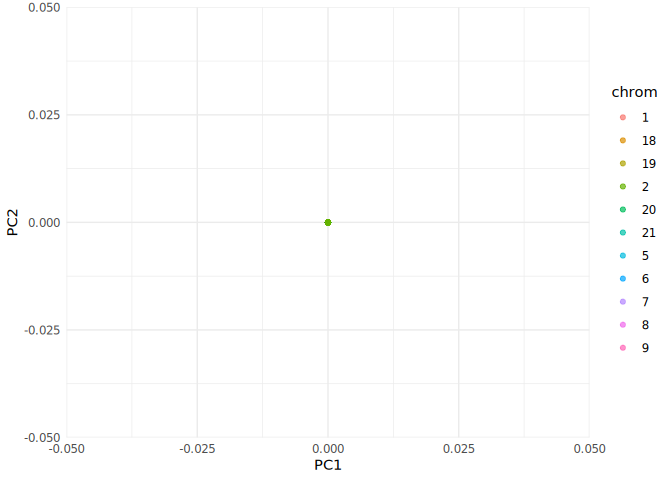
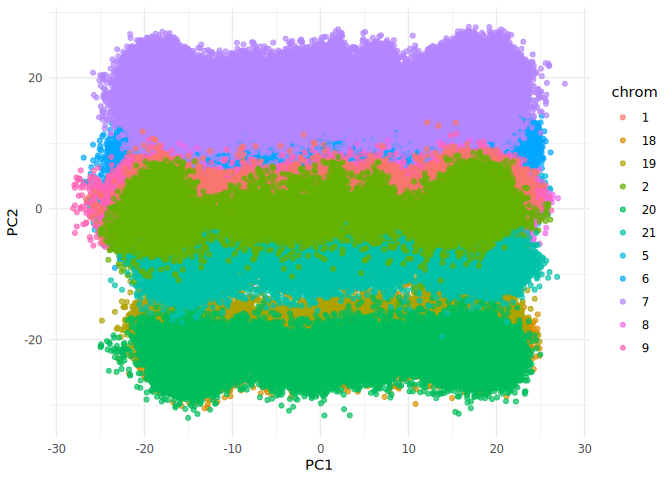
revert hugging face download method

diff --git a/README.md b/README.md
@@ -14,7 +14,7 @@ library(knitr)
 # Use OpenRemoteParquetView to inspect the first few rows
 OpenRemoteParquetView()
 #> # Source:   table<embeddings> [?? x 6]
-#> # Database: DuckDB 1.4.0 [root@Linux 6.8.0-78-generic:R 4.5.1//tmp/RtmpVSD7nd/file865d51eb3d3d.duckdb]
+#> # Database: DuckDB 1.4.0 [root@Linux 6.8.0-78-generic:R 4.5.1//tmp/RtmpRDug8x/file86c5f12021efb.duckdb]
 #>    chrom pos       ref_UKB alt_UKB rsid       embedding    
 #>    <chr> <chr>     <chr>   <chr>   <chr>      <list>       
 #>  1 5     148899362 T       G       rs4705280  <dbl [3,072]>
@@ -37,9 +37,9 @@ system.time(
 
 CopyParquetToDuckDB(db_path = "local_embeddings.duckdb", overwrite = FALSE)
 )
-#> Copied parquet files to DuckDB table 'embeddings' in database 'local_embeddings.duckdb'.
+#> Database file 'local_embeddings.duckdb' already exists. Skipping copy.
 #>    user  system elapsed 
-#>  62.799  22.832 101.021
+#>   0.027   0.006   0.029
 file.info("local_embeddings.duckdb")$size
 #> [1] 12106084352
 ```
@@ -52,12 +52,16 @@ system.time(
 houba <- writeEmbeddingsHoubaFromDuckDB(dbPath = "local_embeddings.duckdb", overwrite = FALSE)
 )
 #> Writing 616386 rows in batches of 100000...
-#> Warning in writeEmbeddingsHoubaFromDuckDB(dbPath = "local_embeddings.duckdb", :
-#> Embedding file already exists: local_embeddings.houba. Use overwrite = TRUE to
-#> overwrite.
+#> Processed rows 1 to 100000
+#> Processed rows 100001 to 200000
+#> Processed rows 200001 to 300000
+#> Processed rows 300001 to 400000
+#> Processed rows 400001 to 500000
+#> Processed rows 500001 to 600000
+#> Processed rows 600001 to 616386
 #> Done writing embeddings and info to houba mmatrix.
 #>    user  system elapsed 
-#>   0.503   0.055   0.512
+#>  37.539  21.087  47.594
 file.info("local_embeddings.houba")$size
 #> [1] 15148302336
 ```
@@ -72,7 +76,7 @@ system.time(
 #> Dimensions: 616386 x 3072
 #> Running PCA with center=TRUE, scale=TRUE, ncomp=15
 #>    user  system elapsed 
-#> 325.420 118.848  39.951
+#> 363.543 118.628  55.662
 ```
 
 ## 5. Get PCA scores
@@ -111,33 +115,22 @@ for (i in seq_along(cor_table$Chromosome)) {
   cor_table$Correlation[i] <- ct$estimate
   cor_table$P_value[i] <- ct$p.value
 }
-#> Warning in cor(x, y): the standard deviation is zero
-#> Warning in cor(x, y): the standard deviation is zero
-#> Warning in cor(x, y): the standard deviation is zero
-#> Warning in cor(x, y): the standard deviation is zero
-#> Warning in cor(x, y): the standard deviation is zero
-#> Warning in cor(x, y): the standard deviation is zero
-#> Warning in cor(x, y): the standard deviation is zero
-#> Warning in cor(x, y): the standard deviation is zero
-#> Warning in cor(x, y): the standard deviation is zero
-#> Warning in cor(x, y): the standard deviation is zero
-#> Warning in cor(x, y): the standard deviation is zero
 kable(cor_table, digits = 4, caption = "Correlation (and p-value) between PC1 and Genomic Position differences by Chromosome")
 ```
 
 | Chromosome | Correlation | P_value |
 |:-----------|------------:|--------:|
-| 5          |          NA |      NA |
-| 6          |          NA |      NA |
-| 7          |          NA |      NA |
-| 8          |          NA |      NA |
-| 9          |          NA |      NA |
-| 1          |          NA |      NA |
-| 18         |          NA |      NA |
-| 19         |          NA |      NA |
-| 20         |          NA |      NA |
-| 2          |          NA |      NA |
-| 21         |          NA |      NA |
+| 5          |     -0.0001 |  0.9786 |
+| 6          |      0.0056 |  0.0724 |
+| 7          |      0.0054 |  0.1119 |
+| 8          |      0.0023 |  0.5001 |
+| 9          |     -0.0038 |  0.3210 |
+| 1          |     -0.0053 |  0.4246 |
+| 18         |      0.0001 |  0.9828 |
+| 19         |     -0.0088 |  0.1108 |
+| 20         |     -0.0015 |  0.7599 |
+| 2          |     -0.0022 |  0.7113 |
+| 21         |      0.0046 |  0.5550 |
 
 Correlation (and p-value) between PC1 and Genomic Position differences
 by Chromosome
